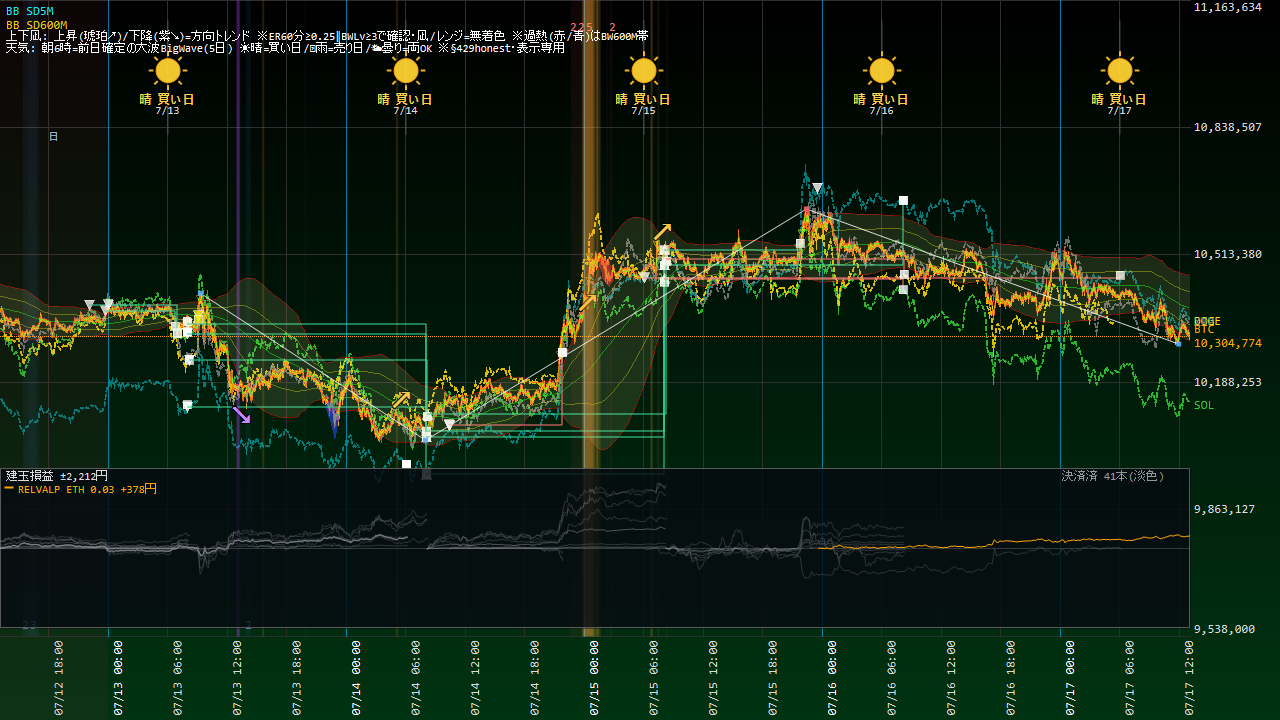
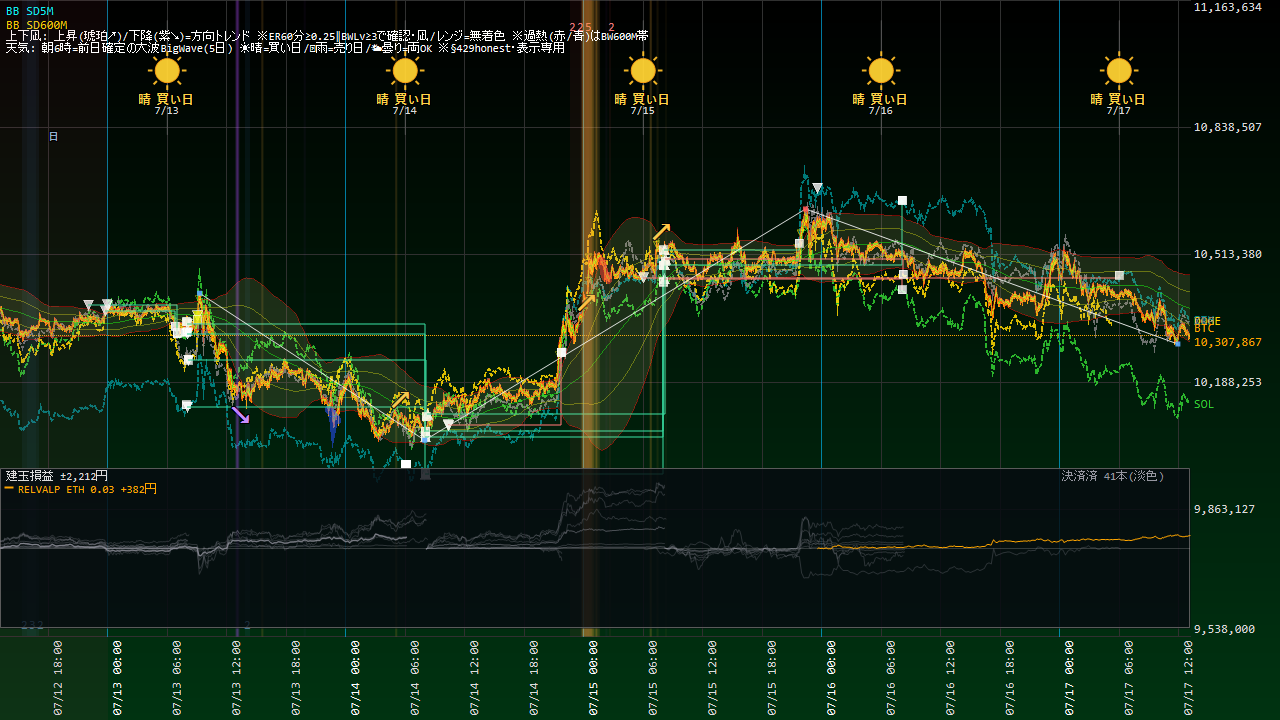
Coin100S 運用状況更新 07-17 13:17

diff --git a/coin100s-795hc4jfv8/index.html b/coin100s-795hc4jfv8/index.html
@@ -14,16 +14,16 @@ a{color:#60a5fa;text-decoration:none} a:hover{text-decoration:underline}
 .meta{color:#94a3b8;font-size:13px}</style>
 <script>setTimeout(function(){location.replace(location.pathname+"?t="+Date.now());},300000);</script></head><body>
 <h1>Coin100S ダッシュボード</h1>
-<p class="meta">スナップショット: 2026-07-17 13:10:38(自動リロード・最新化)</p>
+<p class="meta">スナップショット: 2026-07-17 13:16:38(自動リロード・最新化)</p>
 <div class="cards">
 <div class="card">建玉数<div class="v">1</div></div>
 <div class="card">本日損益<div class="v neg">-22円</div></div>
-<div class="card">評価損益<div class="v pos">+381円</div></div>
+<div class="card">評価損益<div class="v pos">+379円</div></div>
 </div>
 <h2>現在の建玉</h2>
-<table><tr><th>銘柄</th><th>側</th><th>数量</th><th>建値</th><th>含損益</th><th>レッグ</th></tr><tr><td>ETH_JPY</td><td>SELL</td><td>0.03</td><td>@313,051</td><td>+381円</td><td>RELVALP_SL700</td></tr></table>
+<table><tr><th>銘柄</th><th>側</th><th>数量</th><th>建値</th><th>含損益</th><th>レッグ</th></tr><tr><td>ETH_JPY</td><td>SELL</td><td>0.03</td><td>@313,051</td><td>+379円</td><td>RELVALP_SL700</td></tr></table>
 <p><a href="status.html"><b>▶ 運用状況の詳細(チャート・本日の取引・レジーム)</b></a></p>
 <h2>日報一覧</h2>
 <table><tr><th>取引日</th><th>実現損益</th><th>総括</th></tr><tr><td><a href='reports/20260716_Coin100S日報.html'>2026-07-16</a></td><td class="pos">+0円</td><td class='meta'>実取引: 新規0件/決済5件、実現損益 +0円。⚠警告/エラー 7件（要確認）。</td></tr><tr><td><a href='reports/20260715_Coin100S日報.html'>2026-07-15</a></td><td class="pos">+0円</td><td class='meta'>実取引: 新規6件/決済5件、実現損益 +0円。シグナル却下6件（最多: BW10M3_5M／トレンド方向ゲート(N分傾き上と不一致=逆張り方向のfade禁止)）。⚠警告/エラー 7件（要確認）。</td></tr><tr><td><a href='reports/20260714_Coin100S日報.html'>2026-07-14</a></td><td class="pos">+0円</td><td class='meta'>実取引: 新規6件/決済18件、実現損益 +0円。シグナル却下5件（最多: BW10M3_5M／トレンド方向ゲート(N分傾き上と不一致=逆張り方向のfade禁止)）。⚠警告/エラー 9件（要確認）。</td></tr><tr><td><a href='reports/20260713_Coin100S日報.html'>2026-07-13</a></td><td class="pos">+0円</td><td class='meta'>実取引: 新規5件/決済8件、実現損益 +0円。シグナル却下1件（最多: BW10M3_5M／トレンド方向ゲート(N分傾き上と不一致=逆張り方向のfade禁止)）。警告/孤児/エラーなし＝健全。</td></tr><tr><td><a href='reports/20260712_Coin100S日報.html'>2026-07-12</a></td><td class="pos">+0円</td><td class='meta'>実取引: 新規14件/決済6件、実現損益 +0円。シグナル却下5件（最多: BW10M3_5M／トレンド方向ゲート(N分傾き下と不一致=逆張り方向のfade禁止)）。⚠警告/エラー 2件（要確認）。</td></tr><tr><td><a href='reports/20260711_Coin100S日報.html'>2026-07-11</a></td><td class="pos">+0円</td><td class='meta'>実取引: 新規7件/決済6件、実現損益 +0円。⚠警告/エラー 52件（要確認）。</td></tr><tr><td><a href='reports/20260710_Coin100S日報.html'>2026-07-10</a></td><td class="pos">+0円</td><td class='meta'>実取引: 新規7件/決済6件、実現損益 +0円。シグナル却下6件（最多: BW10M3_5M／トレンド方向ゲート(N分傾き上と不一致=逆張り方向のfade禁止)）。警告/孤児/エラーなし＝健全。</td></tr><tr><td><a href='reports/20260709_Coin100S日報.html'>2026-07-09</a></td><td class="pos">+0円</td><td class='meta'>実取引: 新規8件/決済3件、実現損益 +0円。シグナル却下5件（最多: SD120M_5M／トレンド方向ゲート(N分傾き上と不一致=逆張り方向のfade禁止)）。警告/孤児/エラーなし＝健全。</td></tr><tr><td><a href='reports/20260708_Coin100S日報.html'>2026-07-08</a></td><td class="pos">+0円</td><td class='meta'>実取引: 新規2件/決済4件、実現損益 +0円。シグナル却下4件（最多: SD120M_5M／トレンド方向ゲート(N分傾き下と不一致=逆張り方向のfade禁止)）。警告/孤児/エラーなし＝健全。</td></tr><tr><td><a href='reports/20260707_Coin100S日報.html'>2026-07-07</a></td><td class="pos">+0円</td><td class='meta'>実取引: 新規8件/決済6件、実現損益 +0円。シグナル却下4件（最多: SD120M_5M／トレンド方向ゲート(N分傾き上と不一致=逆張り方向のfade禁止)）。⚠警告/エラー 258件（要確認）。</td></tr><tr><td><a href='reports/20260706_Coin100S日報.html'>2026-07-06</a></td><td class="pos">+0円</td><td class='meta'>実取引: 新規9件/決済6件、実現損益 +0円。シグナル却下9件（最多: SD120M_5M／トレンド方向ゲート(N分傾き上と不一致=逆張り方向のfade禁止)）。⚠警告/エラー 150件（要確認）。</td></tr><tr><td><a href='reports/20260705_Coin100S日報.html'>2026-07-05</a></td><td class="pos">+0円</td><td class='meta'>実取引: 新規8件/決済3件、実現損益 +0円。⚠警告/エラー 2件（要確認）。</td></tr><tr><td><a href='reports/20260704_Coin100S日報.html'>2026-07-04</a></td><td class="pos">+0円</td><td class='meta'>実取引: 新規1件/決済2件、実現損益 +0円。⚠警告/エラー 2件（要確認）。</td></tr><tr><td><a href='reports/20260703_Coin100S日報.html'>2026-07-03</a></td><td class="pos">+0円</td><td class='meta'>実取引: 新規5件/決済4件、実現損益 +0円。⚠警告/エラー 15件（要確認）。</td></tr><tr><td><a href='reports/20260702_Coin100S日報.html'>2026-07-02</a></td><td class="pos">+0円</td><td class='meta'>実取引: 新規7件/決済5件、実現損益 +0円。シグナル却下17件（最多: SD120M_5M／トレンド方向ゲート(N分傾き上と不一致=逆張り方向のfade禁止)）。⚠警告/エラー 26件（要確認）。</td></tr><tr><td><a href='reports/20260701_Coin100S日報.html'>2026-07-01</a></td><td class="pos">+0円</td><td class='meta'>実取引: 新規14件/決済8件、実現損益 +0円。シグナル却下14件（最多: SD120M_5M／ボラ軸ゲート(SDN%&amp;gt;N%=高ボラ/荒れレンジ)）。⚠警告/エラー 2件（要確認）。</td></tr><tr><td><a href='reports/20260630_Coin100S日報.html'>2026-06-30</a></td><td class="pos">+0円</td><td class='meta'>実取引: 新規0件/決済1件、実現損益 +0円。シグナル却下29件（最多: 微5M／当日枠N）。警告/孤児/エラーなし＝健全。</td></tr></table>
-<hr><p class="meta">更新: 2026-07-17 13:11:07 / 自動生成: tools/web_publish.py(§580)</p>
+<hr><p class="meta">更新: 2026-07-17 13:17:06 / 自動生成: tools/web_publish.py(§580)</p>
 </body></html>

diff --git a/coin100s-795hc4jfv8/status.html b/coin100s-795hc4jfv8/status.html
@@ -14,22 +14,22 @@ a{color:#60a5fa;text-decoration:none} a:hover{text-decoration:underline}
 .meta{color:#94a3b8;font-size:13px}</style>
 <script>setTimeout(function(){location.replace(location.pathname+"?t="+Date.now());},300000);</script></head><body>
 <h1>Coin100S 運用状況</h1>
-<p class="meta">スナップショット: 2026-07-17 13:10:38 / ページ生成: 2026-07-17 13:11:07(自動リロード・最新化) / <a href="index.html">目次へ</a></p>
+<p class="meta">スナップショット: 2026-07-17 13:16:38 / ページ生成: 2026-07-17 13:17:06(自動リロード・最新化) / <a href="index.html">目次へ</a></p>
 <div class="cards">
 <div class="card">建玉数<div class="v">1</div></div>
 <div class="card">本日損益<div class="v neg">-22円</div></div>
-<div class="card">評価損益<div class="v pos">+381円</div></div>
+<div class="card">評価損益<div class="v pos">+379円</div></div>
 </div>
 <h2>資産推移(直近30日)</h2>
-<img src="status_equity.png?t=1311" alt="equity">
+<img src="status_equity.png?t=1317" alt="equity">
 <h2>取引チャート(直近24h)</h2>
-<img src="status_chart.png?t=1311" alt="chart">
+<img src="status_chart.png?t=1317" alt="chart">
 <h2>建玉一覧</h2>
-<table><tr><th>銘柄</th><th>側</th><th>数量</th><th>建値</th><th>含損益</th><th>レッグ</th></tr><tr><td>ETH_JPY</td><td>SELL</td><td>0.03</td><td>@313,051</td><td>+381円</td><td>RELVALP_SL700</td></tr></table>
+<table><tr><th>銘柄</th><th>側</th><th>数量</th><th>建値</th><th>含損益</th><th>レッグ</th></tr><tr><td>ETH_JPY</td><td>SELL</td><td>0.03</td><td>@313,051</td><td>+379円</td><td>RELVALP_SL700</td></tr></table>
 <h2>実現決済履歴(直近15件・OrderId単位)</h2>
 <table><tr><th>決済時刻</th><th>レッグ</th><th>銘柄</th><th>実現損益</th></tr><tr><td>07-17 06:08</td><td>RELVALP_SELL</td><td>ETH</td><td class="neg">-22円</td></tr><tr><td>07-16 08:21</td><td>TENKI5D_REV_DOGE</td><td>DOGE</td><td class="neg">-125円</td></tr><tr><td>07-16 08:12</td><td>TENKI5D_REV_ETH</td><td>ETH</td><td class="pos">+740円</td></tr><tr><td>07-16 08:12</td><td>TENKI5D_REV_ETH</td><td>ETH</td><td class="pos">+555円</td></tr><tr><td>07-16 08:12</td><td>TENKI5D_REV_SOL</td><td>SOL</td><td class="neg">-193円</td></tr><tr><td>07-15 21:51</td><td>TENKI5D_REV_BTC</td><td>BTC</td><td class="pos">+94円</td></tr><tr><td>07-15 08:18</td><td>TENKI5D_REV_DOGE</td><td>DOGE</td><td class="pos">+858円</td></tr><tr><td>07-15 08:09</td><td>TENKI5D_REV_ETH</td><td>ETH</td><td class="pos">+601円</td></tr><tr><td>07-15 08:09</td><td>TENKI5D_REV_ETH</td><td>ETH</td><td class="pos">+2,402円</td></tr><tr><td>07-15 08:09</td><td>TENKI5D_REV_SOL</td><td>SOL</td><td class="pos">+1,812円</td></tr><tr><td>07-15 08:09</td><td>TENKI5D_REV_BTC</td><td>BTC</td><td class="pos">+1,850円</td></tr><tr><td>07-14 21:47</td><td>SIGFADE_ETH</td><td>ETH</td><td class="neg">-350円</td></tr><tr><td>07-14 21:47</td><td>SIGFADE_ETH</td><td>ETH</td><td class="neg">-141円</td></tr><tr><td>07-14 08:15</td><td>TENKI5D_REV_DOGE</td><td>DOGE</td><td class="pos">+267円</td></tr><tr><td>07-14 08:06</td><td>TENKI5D_REV_SOL</td><td>SOL</td><td class="pos">+1,011円</td></tr></table>
 <!-- §799c 「本取引日の実取引(6:00起点)」テーブルは公開ページから削除(ユーザー指示2026-07-15・数量/指値まで晒す情報漏れ)。建玉/実現損益は許可・実発注の生取引明細は非公開 -->
 <h2>現在レジーム(3軸・§570c)</h2>
-<ul><li>アルト対BTC 5日: <b>-76bps</b>(アルト劣後=RELVAL順風)</li><li>BTC ER240m: <b>0.062</b>(閾値0.25→レンジ(fade順風/BWTRD逆風))</li><li>BTC実現ボラ240m: <b>4.69</b> bps/分</li></ul>
+<ul><li>アルト対BTC 5日: <b>-76bps</b>(アルト劣後=RELVAL順風)</li><li>BTC ER240m: <b>0.072</b>(閾値0.25→レンジ(fade順風/BWTRD逆風))</li><li>BTC実現ボラ240m: <b>4.67</b> bps/分</li></ul>
 <hr><p class="meta">自動生成: tools/web_publish.py(§580・読み取り専用)。売買判断はアプリ本体。</p>
 </body></html>
